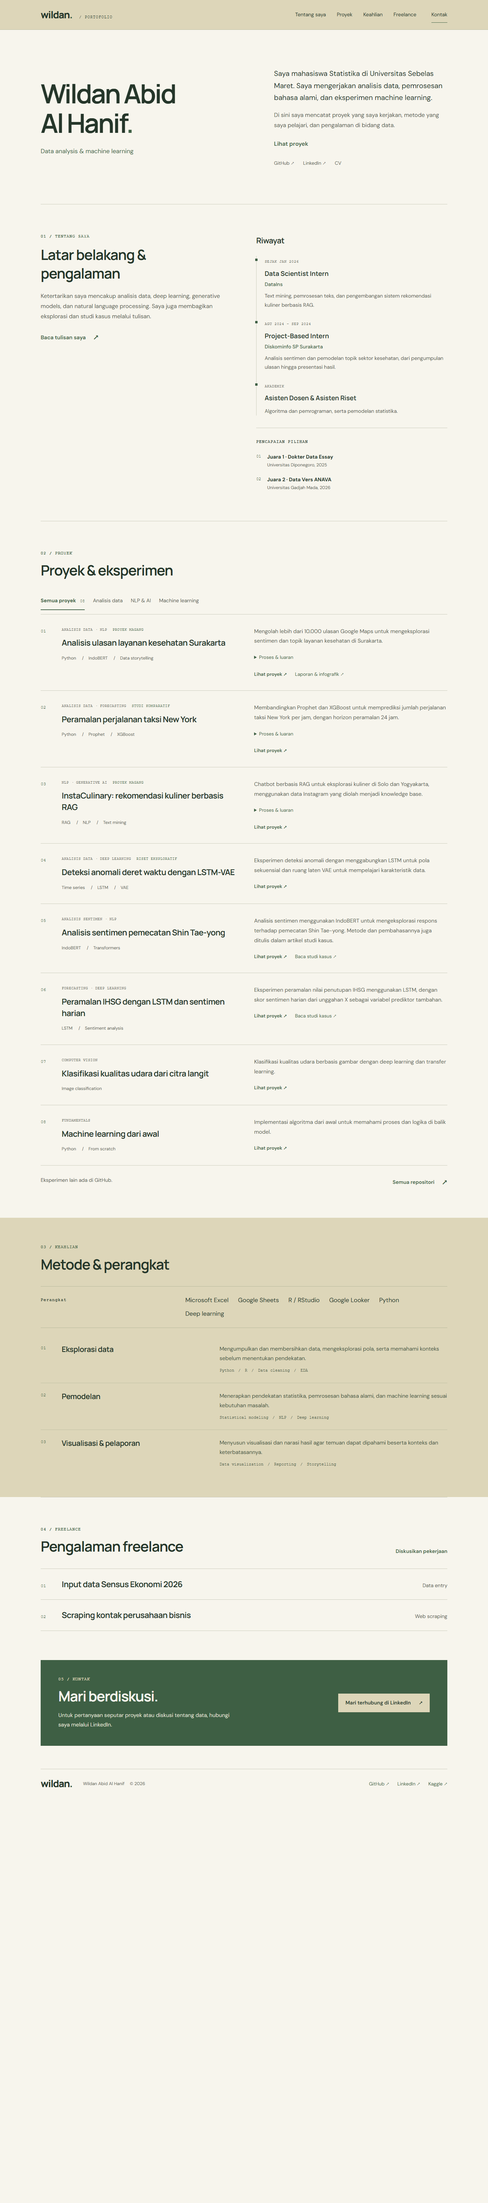
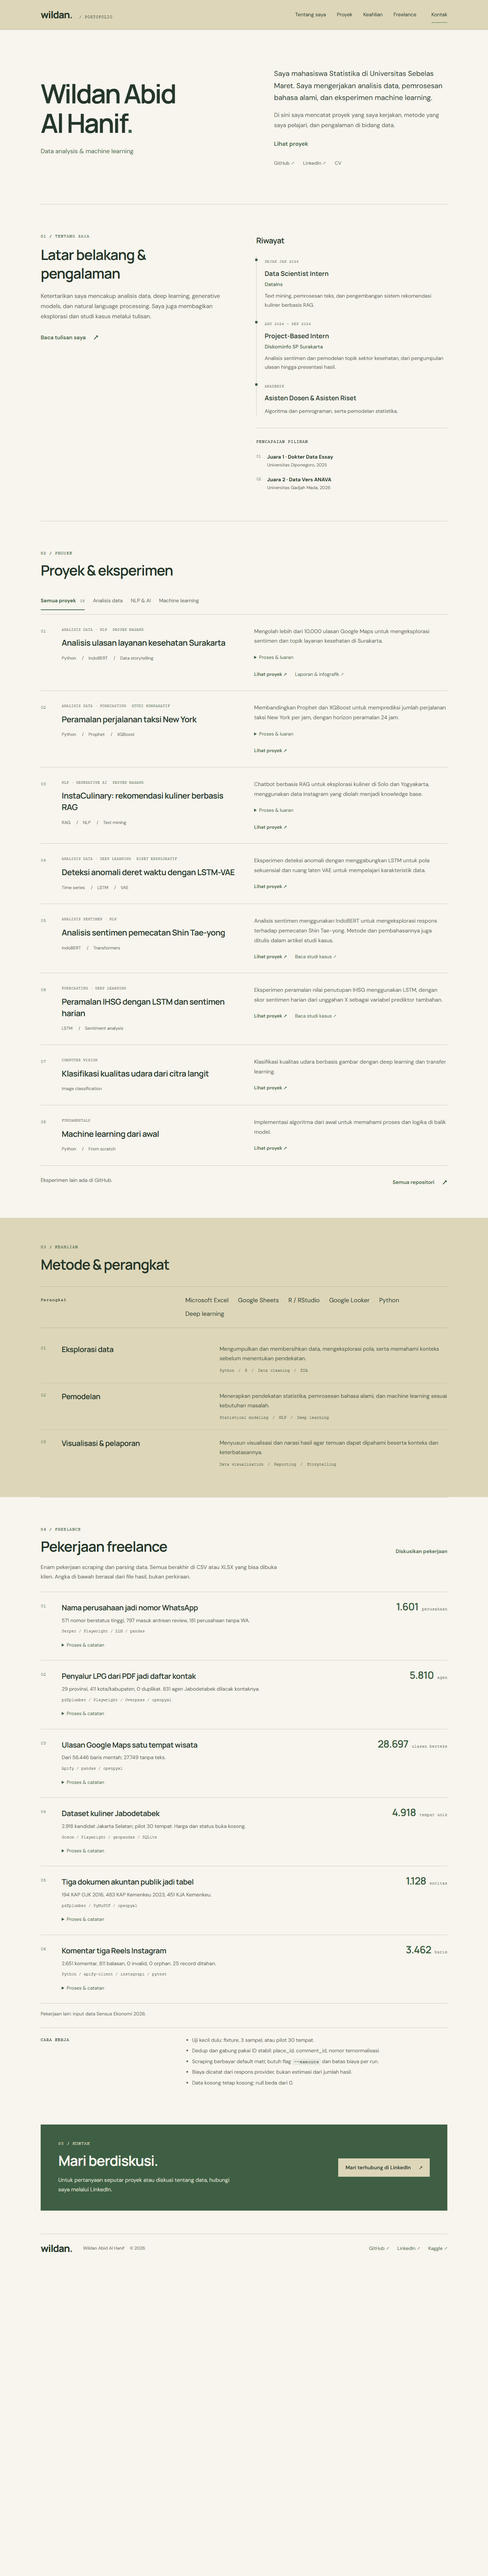
Expand freelance section with six verified client work summaries
- replace the two placeholder freelance rows with a six-row ledger
- show exact result counts and honest caveats from the project files
- add native details for process notes and failures
- keep the census data entry as a footnote
- document the work principles and run the delivery gate

diff --git a/index.html b/index.html
@@ -753,21 +753,133 @@
     <div class="section-heading">
      <div>
       <p class="eyebrow">04 / FREELANCE</p>
-      <h2 id="freelance-title">Pengalaman freelance</h2>
+      <h2 id="freelance-title">Pekerjaan freelance</h2>
      </div>
      <a class="text-link" href="#kontak">Diskusikan pekerjaan</a>
     </div>
-    <div class="freelance-list">
-     <article class="freelance-work">
+    <p class="freelance-intro">
+     Enam pekerjaan scraping dan parsing data. Semua berakhir di CSV atau XLSX yang bisa dibuka klien. Angka di bawah berasal dari file hasil, bukan perkiraan.
+    </p>
+    <div class="freelance-ledger">
+     <article class="freelance-card">
       <span class="project-number" aria-hidden="true">01</span>
-      <h3>Input data Sensus Ekonomi 2026</h3>
-      <p>Data entry</p>
+      <div class="freelance-body">
+       <div class="freelance-head">
+        <h3>Nama perusahaan jadi nomor WhatsApp</h3>
+        <p class="freelance-result"><strong>1.601</strong> <span>perusahaan</span></p>
+       </div>
+       <p class="freelance-note">571 nomor berstatus tinggi, 797 masuk antrean review, 181 perusahaan tanpa WA.</p>
+       <p class="freelance-tools">Serper / Playwright / LLM / pandas</p>
+       <details class="project-method">
+        <summary>Proses &amp; catatan</summary>
+        <div class="freelance-detail">
+         <p>Klien mengirim daftar nama perusahaan. Saya cari lewat Serper, tarik nomor dari tautan wa.me, wa.link, atau teks 08/62, normalisasi ke 628, lalu validasi dengan LLM. Halaman yang butuh JavaScript saya buka dengan Playwright.</p>
+         <p>Dedup pakai nama saja gagal karena satu grup punya banyak PT. Cross-validate antar sumber lebih menentukan daripada jumlah nomor.</p>
+        </div>
+       </details>
+      </div>
      </article>
-     <article class="freelance-work">
+     <article class="freelance-card">
       <span class="project-number" aria-hidden="true">02</span>
-      <h3>Scraping kontak perusahaan bisnis</h3>
-      <p>Web scraping</p>
+      <div class="freelance-body">
+       <div class="freelance-head">
+        <h3>Penyalur LPG dari PDF jadi daftar kontak</h3>
+        <p class="freelance-result"><strong>5.810</strong> <span>agen</span></p>
+       </div>
+       <p class="freelance-note">29 provinsi, 411 kota/kabupaten, 0 duplikat. 831 agen Jabodetabek dilacak kontaknya.</p>
+       <p class="freelance-tools">pdfplumber / Playwright / Overpass / openpyxl</p>
+       <details class="project-method">
+        <summary>Proses &amp; catatan</summary>
+        <div class="freelance-detail">
+         <p>Sumbernya PDF daftar penyalur LPG tabung tanpa tabel rapi. Saya ekstrak per halaman, cocokkan header dan jumlah baris dengan token wilayah, lalu pecah jadi 29 CSV per provinsi. Ada 689 alamat kosong yang dibiarkan karena sumbernya kosong.</p>
+         <p>Kontak 831 agen Jabodetabek dicari lewat Google Maps: 81 nomor HP terpilih, 176 kandidat, 253 hanya telepon non-HP, 321 tanpa nomor. Uji OSM 5.396 objek menghasilkan 58 tag kontak dan 0 cocok; hasil nol itu dilaporkan.</p>
+        </div>
+       </details>
+      </div>
      </article>
+     <article class="freelance-card">
+      <span class="project-number" aria-hidden="true">03</span>
+      <div class="freelance-body">
+       <div class="freelance-head">
+        <h3>Ulasan Google Maps satu tempat wisata</h3>
+        <p class="freelance-result"><strong>28.697</strong> <span>ulasan berteks</span></p>
+       </div>
+       <p class="freelance-note">Dari 56.446 baris mentah; 27.749 tanpa teks.</p>
+       <p class="freelance-tools">Apify / pandas / openpyxl</p>
+       <details class="project-method">
+        <summary>Proses &amp; catatan</summary>
+        <div class="freelance-detail">
+         <p>Dua run Apify: 40.000 dan 56.446 baris. Dari 56.446 baris, 27.749 tidak punya teks. Setelah dibersihkan, 28.697 ulasan berteks masuk ke 7 kolom CSV/XLSX, plus satu Excel Januari sampai November 2026.</p>
+         <p>Yang dikirim bukan 56 ribu baris, tapi 28 ribu baris yang bisa dipakai untuk analisis sentimen.</p>
+        </div>
+       </details>
+      </div>
+     </article>
+     <article class="freelance-card">
+      <span class="project-number" aria-hidden="true">04</span>
+      <div class="freelance-body">
+       <div class="freelance-head">
+        <h3>Dataset kuliner Jabodetabek</h3>
+        <p class="freelance-result"><strong>4.918</strong> <span>tempat unik</span></p>
+       </div>
+       <p class="freelance-note">2.918 kandidat Jakarta Selatan; pilot 30 tempat. Harga dan status buka kosong.</p>
+       <p class="freelance-tools">Gosom / Playwright / geopandas / SQLite</p>
+       <details class="project-method">
+        <summary>Proses &amp; catatan</summary>
+        <div class="freelance-detail">
+         <p>Discovery pakai Gosom dengan grid 1 km: 2.944 job sukses, 4.918 tempat unik, 2.918 kandidat untuk Jakarta Selatan. Pilot 30 tempat: 240 ulasan dinilai, 30 foto makanan terpilih, 93 ulasan masuk untuk 28 tempat.</p>
+         <p>Status buka/tutup dan kisaran harga tidak didapat karena Google Maps membatasi tampilan untuk browser otomatis. Kolom itu dikosongkan, bukan ditebak. Produksi 2.918 tempat menunggu instruksi.</p>
+        </div>
+       </details>
+      </div>
+     </article>
+     <article class="freelance-card">
+      <span class="project-number" aria-hidden="true">05</span>
+      <div class="freelance-body">
+       <div class="freelance-head">
+        <h3>Tiga dokumen akuntan publik jadi tabel</h3>
+        <p class="freelance-result"><strong>1.128</strong> <span>entitas</span></p>
+       </div>
+       <p class="freelance-note">194 KAP OJK 2016, 483 KAP Kemenkeu 2023, 451 KJA Kemenkeu.</p>
+       <p class="freelance-tools">pdfplumber / PyMuPDF / openpyxl</p>
+       <details class="project-method">
+        <summary>Proses &amp; catatan</summary>
+        <div class="freelance-detail">
+         <p>Tiga sumber saya ubah jadi tabel yang bisa difilter: 194 KAP dari OJK 2016, 483 KAP dari Kemenkeu 2023, dan 451 KJA dari Kemenkeu. Dua dokumen dibaca dengan pdfplumber; saat tabelnya terpotong, saya baca kata per posisi x dan y.</p>
+         <p>Satu dokumen hanya tersedia sebagai halaman Scribd, jadi saya unduh per halaman dan susun ulang. Nomor telepon dirapikan dengan script terpisah supaya nomor yang menempel tidak tertukar dengan nama.</p>
+        </div>
+       </details>
+      </div>
+     </article>
+     <article class="freelance-card">
+      <span class="project-number" aria-hidden="true">06</span>
+      <div class="freelance-body">
+       <div class="freelance-head">
+        <h3>Komentar tiga Reels Instagram</h3>
+        <p class="freelance-result"><strong>3.462</strong> <span>baris</span></p>
+       </div>
+       <p class="freelance-note">2.651 komentar, 811 balasan, 0 invalid, 0 orphan. 25 record ditahan.</p>
+       <p class="freelance-tools">Python / apify-client / instagrapi / pytest</p>
+       <details class="project-method">
+        <summary>Proses &amp; catatan</summary>
+        <div class="freelance-detail">
+         <p>Klien minta enam kolom: comment_id, comment_text, date, likes, reel_url, parent_comment_id. Hasil akhir: 3.462 baris, 2.651 komentar utama dan 811 balasan, 0 invalid, 0 orphan. Ada 411 teks kosong yang dibiarkan, dan 25 record ditahan karena parent-nya tidak ditemukan.</p>
+         <p>Saya menjalankan 208 unit test, membandingkan 6 pasang CSV/XLSX, dan memeriksa hash 416 file input. Pembanding browser mencatat 2.963 komentar dan 2.737 ID; selisih 226 dilaporkan, bukan ditutup.</p>
+        </div>
+       </details>
+      </div>
+     </article>
+    </div>
+    <p class="freelance-other">Pekerjaan lain: input data Sensus Ekonomi 2026.</p>
+    <div class="freelance-principles">
+     <p class="micro-label">CARA KERJA</p>
+     <ul>
+      <li>Uji kecil dulu: fixture, 3 sampel, atau pilot 30 tempat.</li>
+      <li>Dedup dan gabung pakai ID stabil: place_id, comment_id, nomor ternormalisasi.</li>
+      <li>Scraping berbayar default mati; butuh flag <code>--execute</code> dan batas biaya per run.</li>
+      <li>Biaya dicatat dari respons provider, bukan estimasi dari jumlah hasil.</li>
+      <li>Data kosong tetap kosong; null beda dari 0.</li>
+     </ul>
     </div>
    </section>
    <section aria-labelledby="closing-title" class="closing-section container" id="kontak">

diff --git a/assets/style.css b/assets/style.css
@@ -58,10 +58,26 @@ nav a { padding-block: 10px; }
 .section { padding-block: 86px; }
 #proyek, .freelance-section { border-top: 1px solid var(--line); }
 .freelance-section .section-heading > .text-link { font-size: 15px; }
-.freelance-list { border-top: 1px solid var(--line); }
-.freelance-work { display: grid; grid-template-columns: 36px minmax(0, 1fr) auto; align-items: baseline; gap: 26px; padding-block: 28px; border-bottom: 1px solid var(--line); }
-.freelance-work h3 { font-size: 24px; line-height: 1.4; letter-spacing: -.65px; }
-.freelance-work > p { color: var(--muted); font-size: 15px; }
+.freelance-intro { max-width: 720px; margin-top: -18px; margin-bottom: 30px; color: var(--muted); font-size: 16px; line-height: 1.75; }
+.freelance-ledger { border-top: 1px solid var(--line); }
+.freelance-card { display: grid; grid-template-columns: 36px minmax(0, 1fr); gap: 26px; padding-block: 28px; border-bottom: 1px solid var(--line); }
+.freelance-body { min-width: 0; }
+.freelance-head { display: flex; align-items: baseline; justify-content: space-between; gap: 20px; }
+.freelance-card h3 { font-size: 22px; line-height: 1.35; letter-spacing: -.55px; }
+.freelance-result { flex-shrink: 0; color: var(--green); white-space: nowrap; }
+.freelance-result strong { font: 650 30px/1 var(--heading); letter-spacing: -1.2px; }
+.freelance-result span { margin-left: 6px; color: var(--muted); font: 12px/1.5 var(--mono); letter-spacing: .3px; }
+.freelance-note { margin-top: 8px; color: var(--muted); font-size: 15px; line-height: 1.65; }
+.freelance-tools { margin-top: 10px; color: var(--muted); font: 12px/1.7 var(--mono); }
+.freelance-card .project-method { margin-top: 12px; }
+.freelance-detail { margin-top: 14px; padding-top: 14px; border-top: 1px solid var(--line); color: var(--muted); font-size: 15px; line-height: 1.75; }
+.freelance-detail p + p { margin-top: 10px; }
+.freelance-other { margin-top: 18px; color: var(--muted); font-size: 14px; }
+.freelance-principles { display: grid; grid-template-columns: 1fr 2fr; gap: 40px; margin-top: 28px; padding-block: 24px; border-top: 1px solid var(--line); }
+.freelance-principles .micro-label { padding-top: 3px; }
+.freelance-principles ul { margin: 0; padding-left: 20px; color: var(--muted); font-size: 15px; line-height: 1.7; }
+.freelance-principles li + li { margin-top: 6px; }
+.freelance-principles code { font: .9em var(--mono); color: var(--ink); background: #3e5f4412; padding: 2px 5px; white-space: nowrap; }
 .section-heading { display: flex; justify-content: space-between; align-items: flex-end; gap: 50px; margin-bottom: 38px; }
 h2 { font-size: clamp(30px, 3vw, 42px); line-height: 1.3; letter-spacing: -1.5px; }
 .section-heading h2 { margin-top: 12px; }
@@ -170,9 +186,19 @@ h2 { font-size: clamp(30px, 3vw, 42px); line-height: 1.3; letter-spacing: -1.5px
   .section { padding-block: 56px; }
   .section-heading { display: block; margin-bottom: 28px; }
   .freelance-section .section-heading > .text-link { margin-top: 20px; }
-  .freelance-work { grid-template-columns: 27px minmax(0, 1fr); gap: 8px 12px; padding-block: 24px; }
-  .freelance-work h3 { font-size: 22px; }
-  .freelance-work > p { grid-column: 2; font-size: 14px; }
+  .freelance-intro { margin-top: -8px; margin-bottom: 24px; }
+  .freelance-card { grid-template-columns: 27px minmax(0, 1fr); gap: 12px; padding-block: 24px; }
+  .freelance-head { display: block; }
+  .freelance-card h3 { font-size: 20px; }
+  .freelance-result { margin-top: 8px; }
+  .freelance-result strong { font-size: 26px; }
+  .freelance-result span { font-size: 11px; }
+  .freelance-note { font-size: 14px; }
+  .freelance-tools { font-size: 11px; }
+  .freelance-detail { font-size: 14px; }
+  .freelance-principles { grid-template-columns: 1fr; gap: 12px; padding-block: 20px; }
+  .freelance-principles .micro-label { padding-top: 0; }
+  .freelance-principles ul { font-size: 14px; }
   h2 { font-size: 31px; letter-spacing: -1px; }
   .section-description { margin-top: 16px; max-width: 460px; }
   .project-filters { gap: 4px 20px; }

diff --git a/anti-slop/freelance-2026-11-17.md b/anti-slop/freelance-2026-11-17.md
@@ -1,0 +1,130 @@
+# Freelance section - 2026-11-17
+
+Ruang lingkup: section 04 / Freelance di `index.html`.
+Sumber data: `CAPAIAN-FREELANCE.md`, enam pekerjaan scraping dan parsing.
+File sumber tidak dipublikasikan dan tidak di-commit.
+
+## Keputusan
+
+- Posisi tetap 04, sebelum Kontak.
+- Judul section menjadi `Pekerjaan freelance`.
+- Enam pekerjaan tampil setara sebagai ledger, bukan kartu.
+- Setiap baris punya satu angka utama, satu catatan, alat, dan `details` `Proses & catatan`.
+- `Input data Sensus Ekonomi 2026` tetap sebagai footnote, bukan baris penuh.
+- Lima praktik kerja ditampilkan sebagai blok `Cara kerja`.
+
+## Data yang tampil
+
+| No | Pekerjaan | Angka | Catatan |
+|---|---|---|---|
+| 01 | Nama perusahaan jadi nomor WhatsApp | 1.601 perusahaan | 571 status tinggi, 797 review, 181 tanpa WA |
+| 02 | Penyalur LPG dari PDF | 5.810 agen | 29 provinsi, 411 kota/kabupaten, 0 duplikat, 831 kontak dilacak |
+| 03 | Ulasan Google Maps satu tempat wisata | 28.697 ulasan berteks | dari 56.446 baris, 27.749 tanpa teks |
+| 04 | Dataset kuliner Jabodetabek | 4.918 tempat unik | 2.918 kandidat Jakarta Selatan, pilot 30 tempat, harga dan status buka kosong |
+| 05 | Tiga dokumen akuntan publik | 1.128 entitas | 194 KAP OJK 2016, 483 KAP Kemenkeu 2023, 451 KJA Kemenkeu |
+| 06 | Komentar tiga Reels Instagram | 3.462 baris | 2.651 komentar, 811 balasan, 0 invalid, 0 orphan, 25 record ditahan |
+
+Tidak ada nama klien, industri klien, status berbayar, durasi, tarif, testimoni, atau total jam. Tidak ada penjumlahan angka dari unit berbeda.
+
+## Perubahan file
+
+- `index.html`: section freelance diganti ledger enam baris, intro, footnote, dan blok cara kerja.
+- `assets/style.css`: gaya ledger, angka hasil, detail, footnote, dan prinsip kerja. Aturan `freelance-list` dan `freelance-work` yang lama dihapus.
+- Screenshot: `desktop.png`, `mobile-390.png`, `freelance-desktop.png`, `freelance-mobile.png`, `freelance-open.png`.
+
+## Verifikasi
+
+| Pemeriksaan | Hasil |
+|---|---|
+| 390px tanpa detail terbuka | `scrollWidth=390`, `bodyScrollWidth=390`, 0 elemen keluar viewport |
+| 390px semua detail terbuka | `scrollWidth=390`, 0 elemen keluar viewport |
+| 1440px | `scrollWidth=1425` (15px scrollbar), 0 elemen keluar viewport |
+| Jumlah kartu freelance | 6 |
+| Jumlah details freelance | 6 |
+| Angka dan catatan | Cocok dengan `CAPAIAN-FREELANCE.md` |
+| Em dash, en dash, emoji | 0 |
+| ID duplikat | 0 |
+| Tautan internal | Semua menuju ID yang ada |
+| Details | Native `details` dan `summary`, tanpa JavaScript |
+| Kontras | Angka hijau 6.58:1, muted 5.86:1, tinta 11.73:1; semua lolos AA |
+| Kode `--execute` | Tetap satu baris di 390px setelah `white-space: nowrap` |
+
+## Delivery Gate
+
+### Block 1: Hard Gate
+
+| Rule | Status | Bukti |
+|---|---|---|
+| R-02 | PASS | 0 em dash dan 0 en dash di `index.html`; copy baru memakai titik, koma, dan titik dua. |
+| R-03 | PASS | 390px: `scrollWidth=390`, 0 offender; semua detail terbuka juga 0 offender. |
+| R-17 | PASS | Semua angka berasal dari file hasil; tidak ada total gabungan atau angka baru. |
+| R-18 | PASS | Tidak ada testimoni atau nama klien. |
+| R-23 | PASS | Tidak ada aset visual baru; angka sudah ada di sumber dan tidak dikarang. |
+| R-24 | PASS | Nav tetap menuju `#tentang`, `#proyek`, `#keahlian`, `#freelance`, `#kontak`; semua ada. |
+| R-25 | PASS | Hijau 6.58:1, muted 5.86:1, tinta 11.73:1; kode tinta di tint hijau 7% tetap tinggi. |
+| R-26 | PASS | Details native, tautan punya tujuan; tidak ada kontrol mati. |
+| R-27 | PASS | Empty state filter tetap ada; section freelance statis, loading/error tidak berlaku. |
+| R-28 | PASS | Tidak ada FAQ. |
+| R-32 | PASS | `summary` native, fokus terlihat, bisa dibuka dengan Enter atau Space. |
+| R-33 | PASS | HTML dan CSS diedit langsung; tidak ada skrip patch di repo. |
+| R-34 | PASS | Tidak ada theme toggle. |
+| R-35 | PASS | Chromium 390px dan 1440px; detail dibuka untuk uji overflow; screenshot tersimpan. |
+| R-36 | PASS | Tidak ada klaim performa, keamanan, atau pelanggan. |
+| R-37 | PASS | Arah desain tetap dari `DESIGN.md`; section memakai palet dan tipografi yang sama. |
+| R-38 | PASS | Data nyata; bagian yang gagal atau kosong ditulis apa adanya. |
+| R-39 | PASS | `summary` native, `cursor: pointer`, angka dekoratif `aria-hidden`, heading berurutan. |
+| R-40 | PASS | Tidak ada media baru; tidak ada skrip pihak ketiga; tidak ada angka performa yang dikarang. |
+
+### Block 2: Purpose-Gate
+
+| Rule | Status | Alasan |
+|---|---|---|
+| R-01 | PASS | Tidak ada gradien atau glow; palet tetap hijau, krem, kertas, tinta. |
+| R-04 | PASS | Tidak ada ikon baru; panah hanya di tautan eksternal. |
+| R-06 | PASS | Mono tetap hanya untuk label, alat, dan angka indeks. |
+| R-07 | PASS | Tidak ada background grid. |
+| R-08 | PASS | Tidak ada panah dekoratif baru. |
+| R-09 | PASS | Tidak ada badge. |
+| R-10 | PASS | Tidak ada glassmorphism. |
+| R-12 | PASS | Tidak ada shadow. |
+| R-13 | PASS | Tidak ada glow. |
+| R-14 | PASS | Enam baris setara karena pekerjaan setara; hasil angka menjadi hierarki, bukan kartu dekoratif. |
+| R-19 | PASS | Tidak ada animasi baru; details native. |
+| R-22 | PASS | Tidak ada ilustrasi. |
+
+### Block 3: Liveliness
+
+| Item | Status | Bukti |
+|---|---|---|
+| Dial eksplisit | PASS | `ENERGY 1 / RHYTHM 2 / MOTION 1` di `DESIGN.md`. |
+| Konsisten dengan dial | PASS | Section tenang, ledger rapat, motion hanya hover dan details. |
+| Focal point | PASS | Angka hasil hijau dan judul pekerjaan. |
+| Whitespace struktural | PASS | Garis ledger dan jarak antarbaris memisahkan pekerjaan. |
+| Satu aksen | PASS | Hijau dipakai untuk angka, tautan, label, dan CTA. |
+| Motif identitas | PASS | Nomor 01 sampai 06, label mono, dan garis tipis. |
+| Design Read | PASS | Ditulis di `DESIGN.md` dan laporan ini. |
+
+### Block 4: Craftsmanship dan Quality Locks
+
+| Rule | Status | Bukti |
+|---|---|---|
+| C-1 | PASS | Setiap keputusan punya alasan: ledger untuk enam pekerjaan setara, angka untuk bukti, details untuk kedalaman. |
+| C-2 | PASS | Semua kontrol berfungsi; details native. |
+| C-3 | PASS | Section mengikuti isi klien, bukan template. |
+| C-4 | PASS | 390px, 1440px, details terbuka, keyboard native. |
+| C-5 | PASS | Tidak ada klaim atau angka karangan. |
+| R-05 | PASS | Ledger, bukan grid kartu atau template hero. |
+| R-11 | PASS | Sudut tajam; tidak ada pill. |
+| R-15 | PASS | CTA tetap `Diskusikan pekerjaan`, spesifik. |
+| R-16 | PASS | Tidak ada buzzword; copy memakai angka dan istilah proyek. |
+| R-20 | PASS | Identitas tetap konsisten dengan portofolio. |
+| R-21 | PASS | Tema terang dengan alasan di `DESIGN.md`. |
+| R-29 | PASS | Dua warna inti dan satu aksen. |
+| R-30 | PASS | Tidak meniru produk lain. |
+| R-31 | PASS | Alasan ledger, angka, details, dan footnote ditulis di laporan ini. |
+
+## Catatan
+
+- `CAPAIAN-FREELANCE.md` tidak di-commit dan tidak ikut build.
+- Folder `anti-slop` sudah dikecualikan dari build GitHub Pages.
+- Build GitHub Pages dijalankan setelah push; hasil live dicek terpisah.
